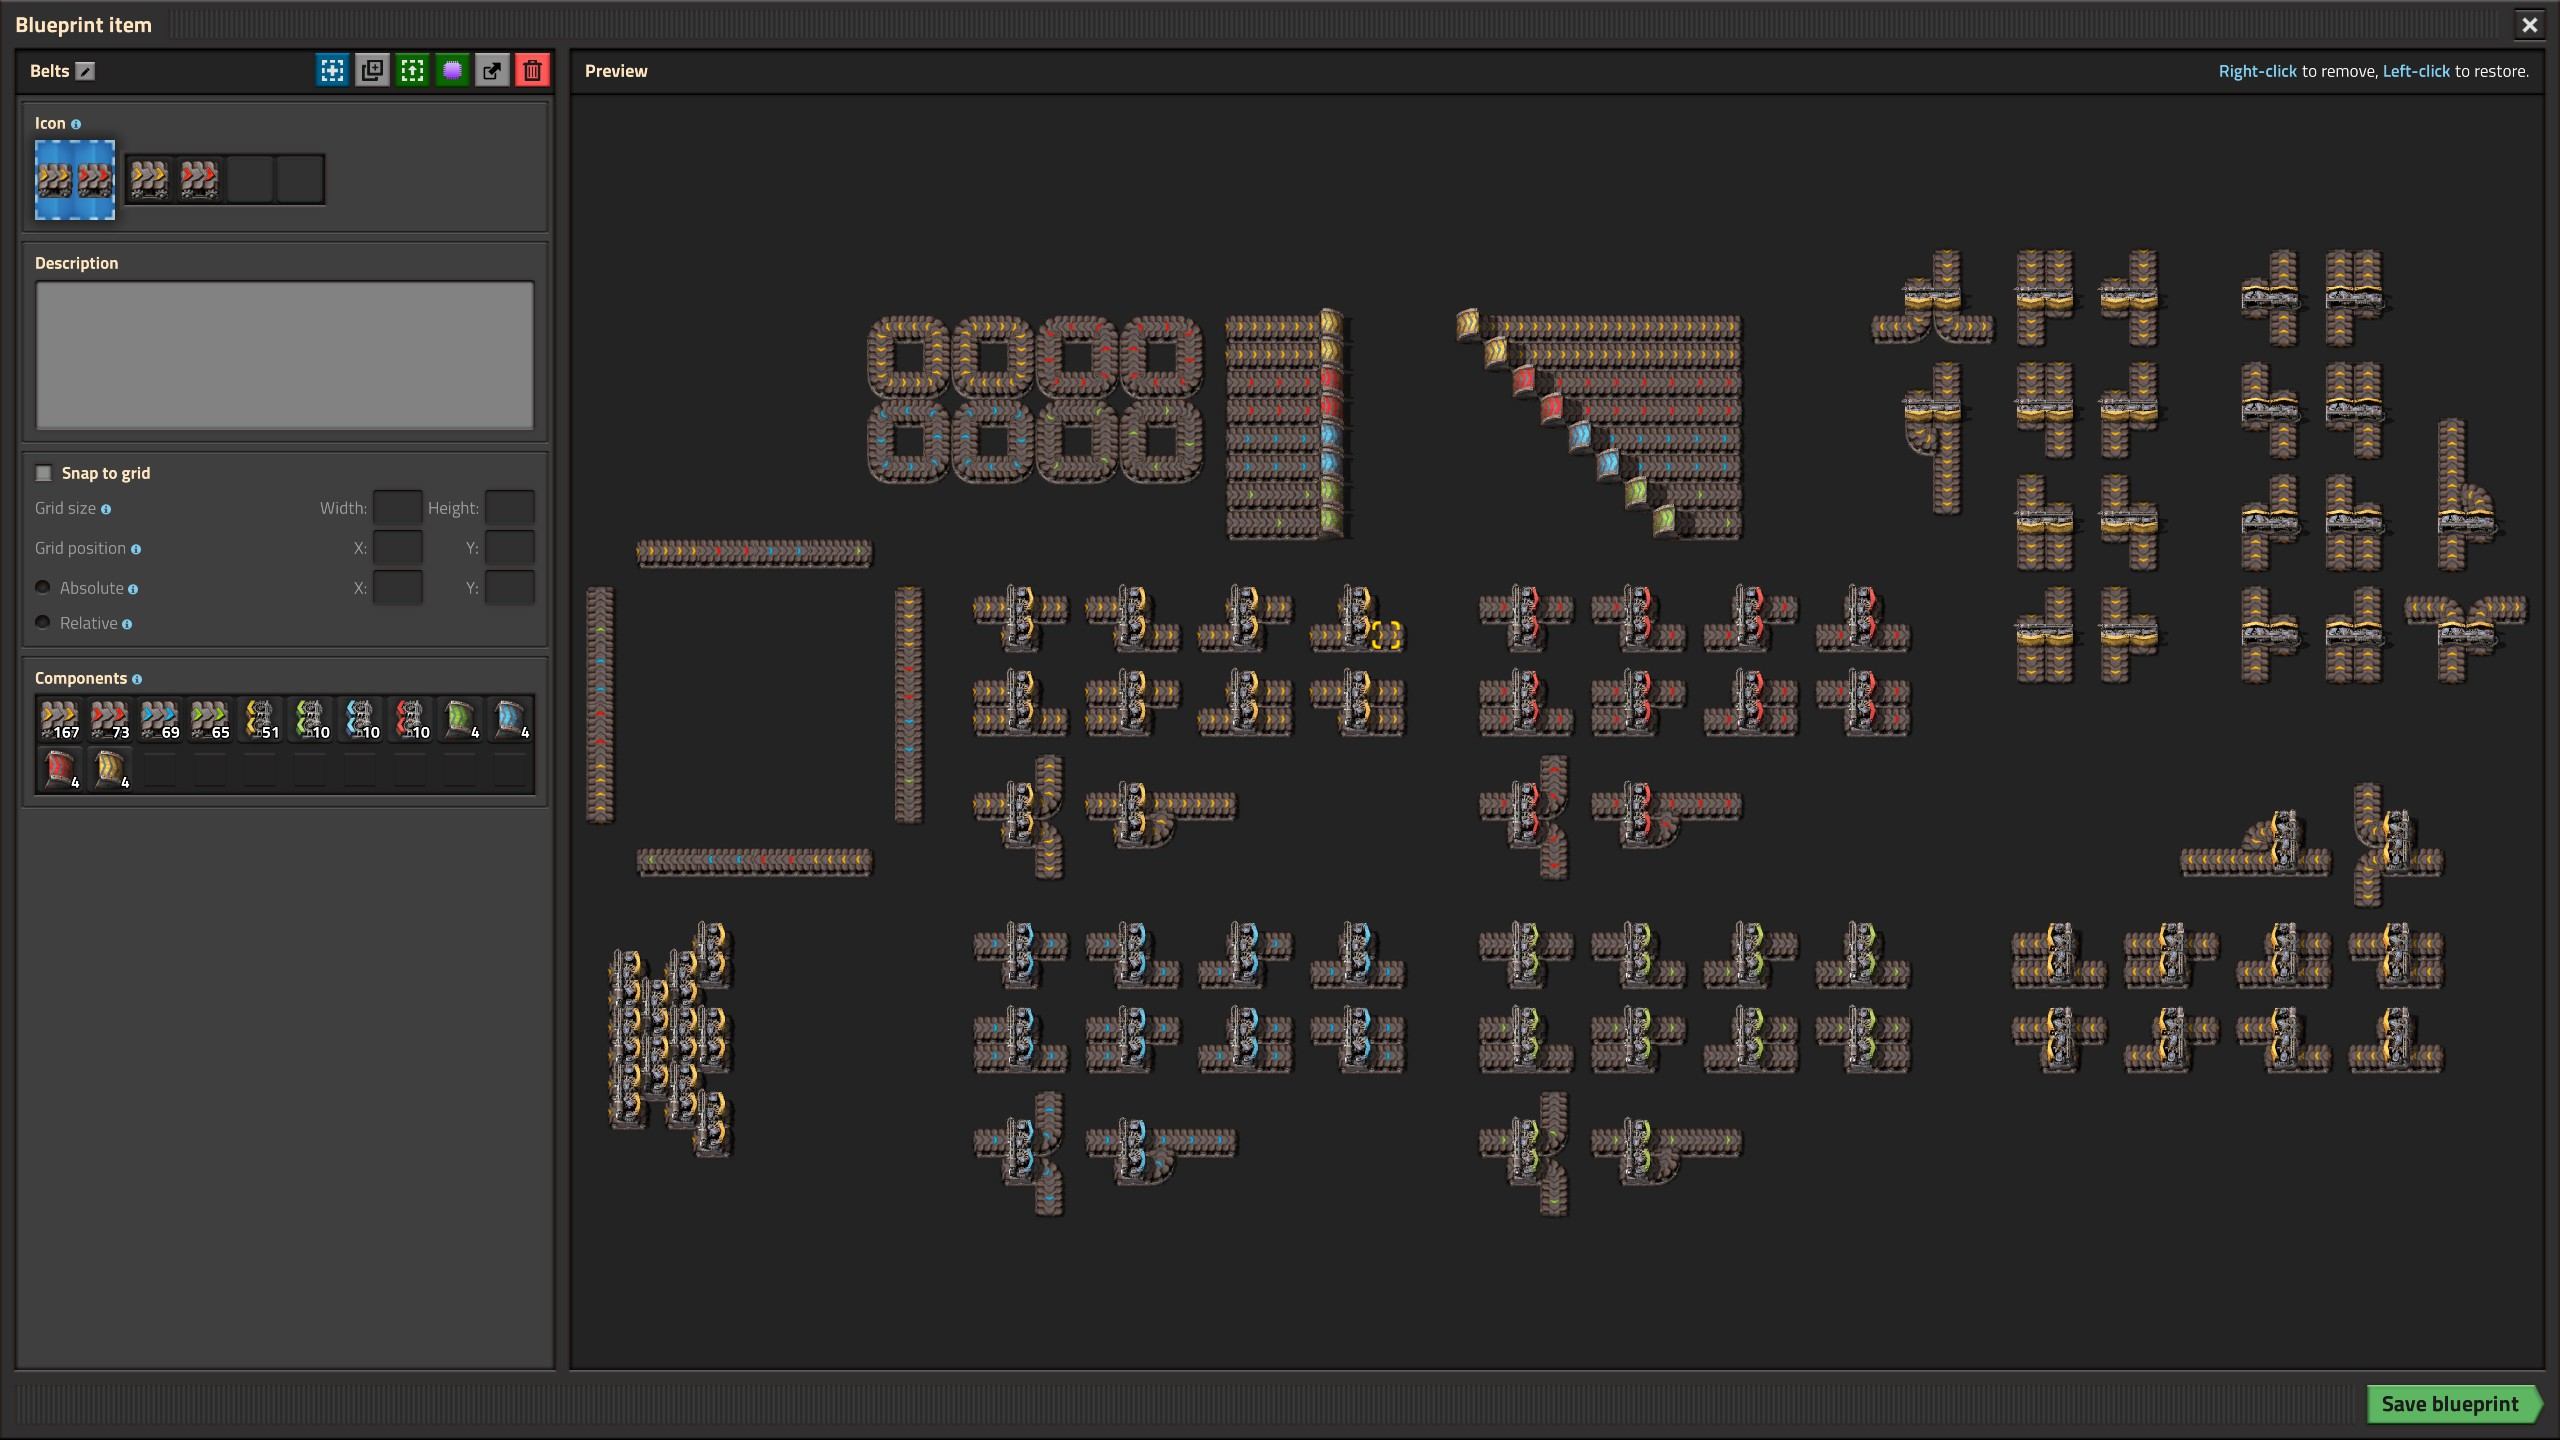
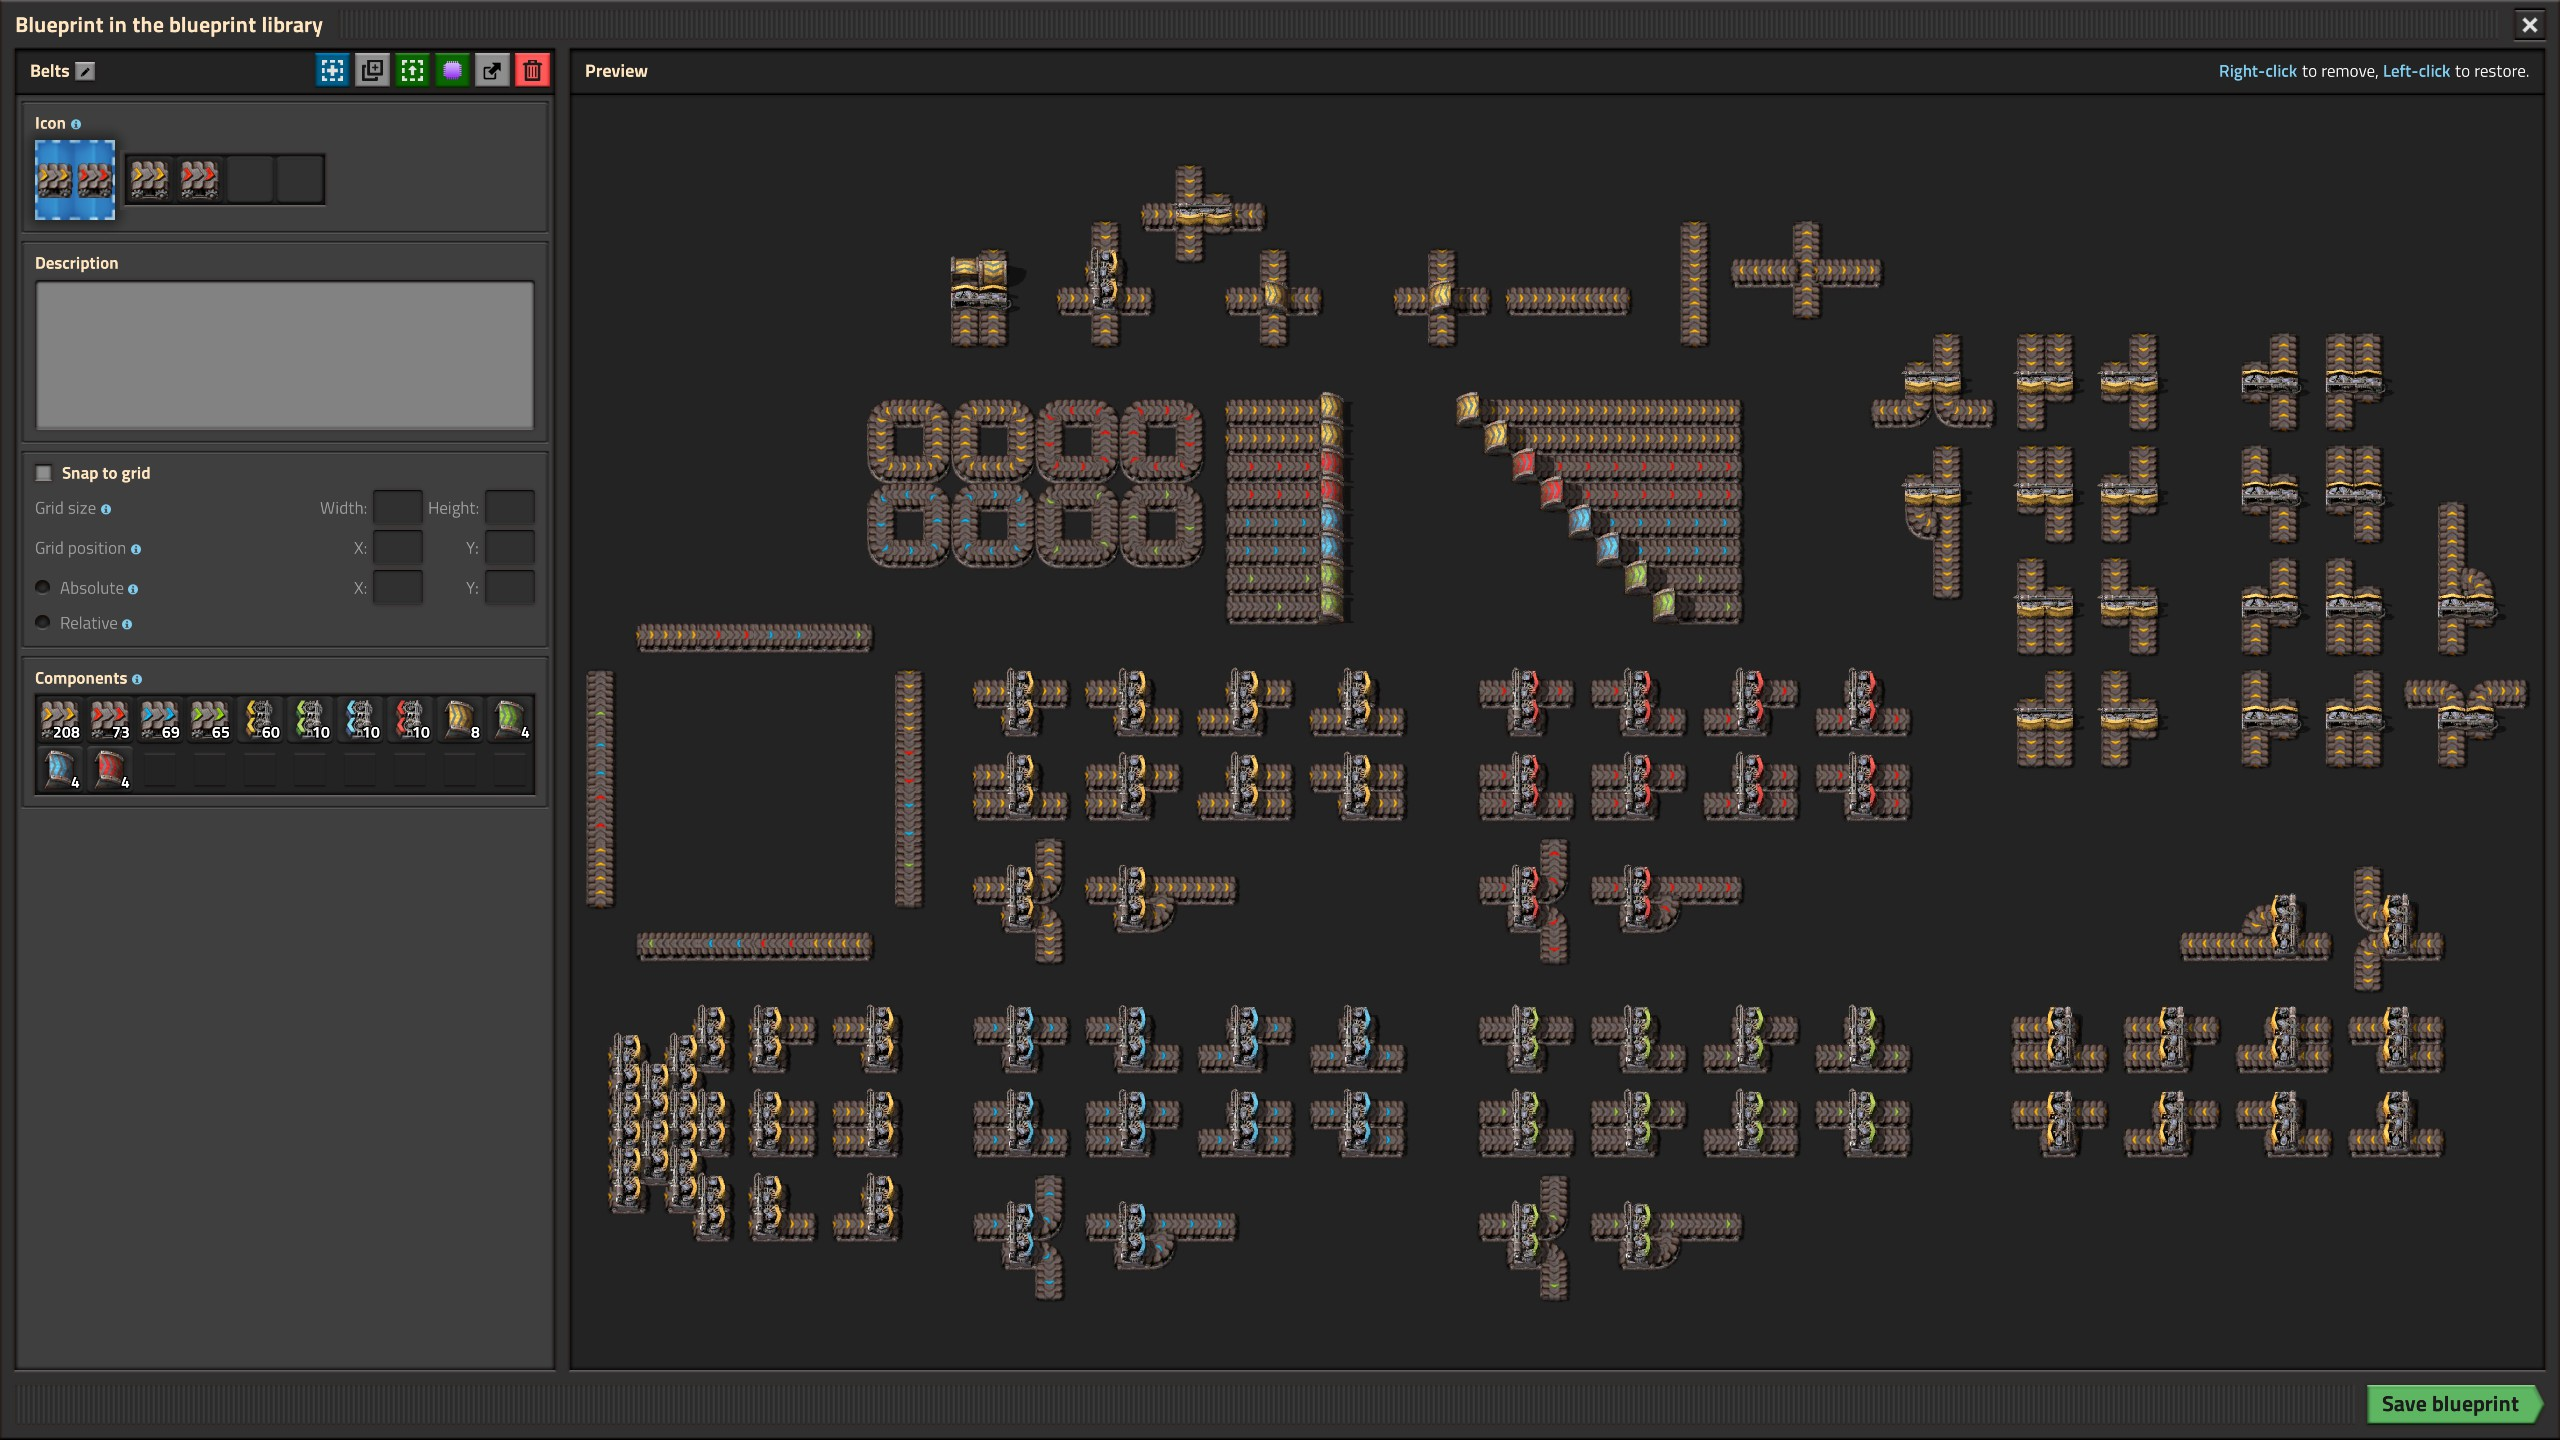
fixed belts

diff --git a/blueprintVisualizer.js b/blueprintVisualizer.js
@@ -379,76 +379,91 @@ function drawEntitiesBbox(dwg, entities, posOffset, settingProps, bboxType) {
 }
 
 function getLinesBelt(entities) {
-    const nodes = {};
-
-    // collect nodes
-    for (const e of entities) {
-        if (e.name === "transport-belt" || e.name === "fast-transport-belt" || e.name === "express-transport-belt" || e.name === "turbo-transport-belt"
-            || e.name === "underground-belt" || e.name === "fast-underground-belt" || e.name === "express-underground-belt" || e.name === "turbo-underground-belt"
-        ) {
-            const posKey = `${e.pos[0]},${e.pos[1]}`;
-            const dir = Math.floor(e.direction / 4);
-            const offset = DIRECTION_4_TO_OFFSET[dir];
-            const targetPos = [e.pos[0] + offset[0], e.pos[1] + offset[1]];
-            if (e.type === "input") {
-                nodes[posKey] = [e.pos, null];
-            } else {
-                nodes[posKey] = [e.pos, targetPos];
-            }
-        }
-        
-    }
-    
-    // create lines
-    const lines = [];
-    for (const [pos, targetPos] of Object.values(nodes)) {   
-        if (targetPos === null) continue;
-        const targetPosKey = `${targetPos[0]},${targetPos[1]}`;
-        if (targetPosKey in nodes) {
-            lines.push([pos, targetPos]);
-        }
+    function isOppositeDirection(dir1, dir2) {
+        return (dir1 + 2) % 4 === dir2;
     }
 
-    // Handle splitters
+    const entityNodes = {}
+    const beltEntityNames = ["transport-belt", "fast-transport-belt", "express-transport-belt", "turbo-transport-belt"];
+    const undergroundBeltEntityNames = ["underground-belt", "fast-underground-belt", "express-underground-belt", "turbo-underground-belt"];
+    const splitterEntityNames = ["splitter", "fast-splitter", "express-splitter", "turbo-splitter"];
+    const combinedEntityNames = [...beltEntityNames, ...undergroundBeltEntityNames, ...splitterEntityNames];
+
+    const lines = []
+
+    // Collect all nodes (belts, underground belts, and splitters)
     for (const e of entities) {
-        if (e.name === "splitter" || e.name === "fast-splitter" || e.name === "express-splitter" || e.name === "turbo-splitter") {
-            const dir = Math.floor(e.direction / 4);
-            const offset = DIRECTION_4_TO_OFFSET[dir];
+        if (!combinedEntityNames.includes(e.name)) {
+            continue;
+        }
+        const dir = Math.floor(e.direction / 4);
+        const offset = DIRECTION_4_TO_OFFSET[dir];
+
+        if (splitterEntityNames.includes(e.name)) {
+            // Handle splitter (create two nodes)
             const offset90 = DIRECTION_4_TO_OFFSET[(dir + 1) % 4];
             const offset270 = DIRECTION_4_TO_OFFSET[(dir + 3) % 4];
+            
+            // Create left and right positions
             const pos1 = [e.pos[0] + offset90[0]/2, e.pos[1] + offset90[1]/2];
             const pos2 = [e.pos[0] + offset270[0]/2, e.pos[1] + offset270[1]/2];
-
-            const inputPos1 = [pos1[0] - offset[0], pos1[1] - offset[1]];
-            const inputPos2 = [pos2[0] - offset[0], pos2[1] - offset[1]];
-
-            const inputPos1Key = `${inputPos1[0]},${inputPos1[1]}`;
-            const inputPos2Key = `${inputPos2[0]},${inputPos2[1]}`;
-
-            if (inputPos1Key in nodes) {
-                lines.push([inputPos1, pos1]);
-                lines.push([inputPos1, pos2]);
+            const pos1Key = `${pos1[0]},${pos1[1]}`;
+            const pos2Key = `${pos2[0]},${pos2[1]}`;
+            
+            const targetPos1 = [pos1[0] + offset[0], pos1[1] + offset[1]];
+            const targetPos2 = [pos2[0] + offset[0], pos2[1] + offset[1]];
+            
+            entityNodes[pos1Key] = {
+                pos: pos1,
+                dir: dir,
+                targetPos: targetPos1,
+                targetPosKey: `${targetPos1[0]},${targetPos1[1]}`,
+                is_underground_input: false
+            };
+            entityNodes[pos2Key] = {
+                pos: pos2,
+                dir: dir,
+                targetPos: targetPos2,
+                targetPosKey: `${targetPos2[0]},${targetPos2[1]}`,
+                is_underground_input: false
+            };
+            lines.push([pos1, pos2]); // Connect splitter halves
+        } else {
+            // Handle belts and underground belts
+            const posKey = `${e.pos[0]},${e.pos[1]}`;
+            const targetPos = [e.pos[0] + offset[0], e.pos[1] + offset[1]];
+            
+            let is_underground_input = false;
+            if (undergroundBeltEntityNames.includes(e.name)) {
+                is_underground_input = (e.type === "input");
             }
 
-            if (inputPos2Key in nodes) {
-                lines.push([inputPos2, pos1]);
-                lines.push([inputPos2, pos2]);
+            entityNodes[posKey] = {
+                pos: e.pos,
+                dir: dir,
+                targetPos: targetPos,
+                targetPosKey: `${targetPos[0]},${targetPos[1]}`,
+                is_underground_input: is_underground_input
+            };
+        }
+    }
+
+    // Create connections between nodes
+    for (const sourceNode of Object.values(entityNodes)) {
+        if (sourceNode.targetPosKey in entityNodes) {
+            const targetNode = entityNodes[sourceNode.targetPosKey];
+            
+            // Skip if source is underground input
+            if (sourceNode.is_underground_input) {
+                continue;
             }
 
-            const outputPos1 = [pos1[0] + offset[0], pos1[1] + offset[1]];
-            const outputPos2 = [pos2[0] + offset[0], pos2[1] + offset[1]];
-
-            const outputPos1Key = `${outputPos1[0]},${outputPos1[1]}`;
-            const outputPos2Key = `${outputPos2[0]},${outputPos2[1]}`;
-
-            if (outputPos1Key in nodes) {
-                lines.push([pos1, outputPos1]);
+            // Skip if directions are opposite
+            if (isOppositeDirection(sourceNode.dir, targetNode.dir)) {
+                continue;
             }
 
-            if (outputPos2Key in nodes) {
-                lines.push([pos2, outputPos2]);
-            }
-
+            lines.push([sourceNode.pos, targetNode.pos]);
         }
     }
 
